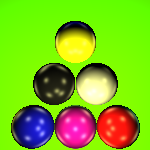
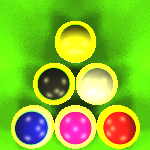
added shadow functionality and bug fixed several problems

diff --git a/ray_tracer.py b/ray_tracer.py
@@ -141,7 +141,7 @@ def main():
                     i - math.floor(args.height / 2)) - camera.position
             ray = ray / np.linalg.norm(ray)
 
-            ray_tracer(ray, i, j, image_array, objects, scene_settings, camera, 1)
+            ray_tracer(ray, i, j, image_array, objects, scene_settings, camera.position, 1)
 
     # # Dummy result
     for i in range(args.height):
@@ -155,7 +155,7 @@ def main():
     save_image(image_array)
 
 
-def ray_tracer(ray, i, j, image_array, objects, scene_settings, camera, depth):
+def ray_tracer(ray, i, j, image_array, objects, scene_settings, origin_point, depth):
     if depth > 1:
         return
     # we subtract the camera position because we want the ray to start from the camera position
@@ -183,9 +183,9 @@ def ray_tracer(ray, i, j, image_array, objects, scene_settings, camera, depth):
             # ray is a 3D vector, sphere is a Sphere object which has a center point and a radius
             # V is the ray direction, P0 is the ray origin, O is the sphere center, r is the sphere radius
             # the result (t) is the distance from the ray origin to the intersection point
-
-            coefficients = [1, np.dot(2 * ray, np.array(camera.position) - np.array(surface.position)),
-                            np.linalg.norm(np.array(camera.position) - np.array(
+            # TODO !!! maybe origin_point is incorrect here !!!
+            coefficients = [1, np.dot(2 * ray, np.array(origin_point) - np.array(surface.position)),
+                            np.linalg.norm(np.array(origin_point) - np.array(
                                 surface.position)) ** 2 - surface.radius ** 2]
             # !!! change to 0 from np.linalg.norm(np.array(camera.position) - np.array( surface.position)) ** 2 - surface.radius ** 2
             # in the third coefficient !!!
@@ -196,7 +196,7 @@ def ray_tracer(ray, i, j, image_array, objects, scene_settings, camera, depth):
                 roots = np.roots(coefficients)
                 for t in roots:
                     if 0 < t < closest_intersection_distance:
-                        point_of_intersection = camera.position + t * ray
+                        point_of_intersection = origin_point + t * ray
                         closest_intersection_distance = t
                         closest_surface = (surface, point_of_intersection)
 
@@ -209,10 +209,10 @@ def ray_tracer(ray, i, j, image_array, objects, scene_settings, camera, depth):
             surface_normal = np.array(surface.normal)
             surface_normal = surface_normal / np.linalg.norm(surface_normal)
             if np.dot(ray, surface_normal) != 0:
-                t = -(np.dot(camera.position, surface_normal) - surface.offset) / np.dot(ray, surface_normal)
+                t = -(np.dot(origin_point, surface_normal) - surface.offset) / np.dot(ray, surface_normal)
                 # !!! maybe change normal to -normal !!!
                 if 0 < t < closest_intersection_distance:
-                    point_of_intersection = camera.position + t * ray
+                    point_of_intersection = origin_point + t * ray
                     closest_intersection_distance = t
                     closest_surface = (surface, point_of_intersection)
 
@@ -241,9 +241,9 @@ def ray_tracer(ray, i, j, image_array, objects, scene_settings, camera, depth):
                 plane_normal = np.array(plane.normal)
                 plane_normal = plane_normal / np.linalg.norm(plane_normal)
                 if np.dot(ray, plane_normal) != 0:
-                    t = -(np.dot(camera.position, plane_normal) - plane.offset) / np.dot(ray, plane_normal)
+                    t = -(np.dot(origin_point, plane_normal) - plane.offset) / np.dot(ray, plane_normal)
                     if t > 0:
-                        point_of_intersection = camera.position + t * ray
+                        point_of_intersection = origin_point + t * ray
                         # check if the point is inside the cube
                         if center[0] - edge_length / 2 <= point_of_intersection[0] <= center[
                             0] + edge_length / 2 and center[1] - edge_length / 2 <= point_of_intersection[1] <= \
@@ -307,7 +307,7 @@ def ray_tracer(ray, i, j, image_array, objects, scene_settings, camera, depth):
             normal = normal / np.linalg.norm(normal)
 
         # calculate the intersection to the camera
-        view = camera.position - closest_surface[1]
+        view = origin_point - closest_surface[1]
         view = view / np.linalg.norm(view)
 
         material_index = closest_surface[0].material_index
@@ -336,25 +336,82 @@ def ray_tracer(ray, i, j, image_array, objects, scene_settings, camera, depth):
                 # ( % of rays that hit the points from the light source)
                 shadow_intensity = light.shadow_intensity
                 # SigmaL(Kd(N.L)+Ks(V.R)^n)SLIL
+
+                intersection_to_light = light.position - closest_surface[1]
+                intersection_to_light = intersection_to_light / np.linalg.norm(intersection_to_light)
+
+                intersection_to_reflected_light = 2 * np.dot(intersection_to_light,
+                                                             normal) * normal - intersection_to_light
+                intersection_to_reflected_light = intersection_to_reflected_light / np.linalg.norm(
+                    intersection_to_reflected_light)
+
+                reflected_ray = ray - 2 * np.dot(ray, normal) * normal
+                reflected_ray = reflected_ray / np.linalg.norm(reflected_ray)
+
+                plane_offset = np.dot(-intersection_to_light, light.position)
+
+                light_plane = InfinitePlane(plane_offset, -intersection_to_light, 1)
+
+                bounding_box_width = light.radius / math.sqrt(2)
+
+                """
+                # calculate the center of the image (Pc)
+                camera.look_at = camera.look_at / np.linalg.norm(camera.look_at)
+                camera.up_vector = camera.up_vector / np.linalg.norm(camera.up_vector)
+                image_center = camera.position + np.array(camera.look_at) * camera.screen_distance
+            
+                # calculate Vright and Vup
+                v_right = np.cross(camera.look_at, camera.up_vector)
+                v_right = v_right / np.linalg.norm(v_right)
+                v_up = np.cross(v_right, camera.look_at)
+                v_up = v_up / np.linalg.norm(v_up)
+                """
+
+                """
+                 ray = image_center - v_right * ratio * (j - math.floor(args.width / 2)) - v_up * ratio * (
+                    i - math.floor(args.height / 2)) - camera.position
+                 ray = ray / np.linalg.norm(ray)
+                """
+                grid_ratio = 2 * bounding_box_width / scene_settings.root_number_shadow_rays
+                light_v_right = np.random.randn(3)  # take a random vector
+                light_v_right = light_v_right.astype(np.float64)  # convert to float64 explicitly
+
+                dot_product = light_v_right.dot(intersection_to_light)
+                real_dot_product = np.real(dot_product)  # Extract the real part of the dot product result
+
+                light_v_right -= real_dot_product * intersection_to_light / np.linalg.norm(intersection_to_light) ** 2
+                light_v_right /= np.linalg.norm(light_v_right)  # normalize it
+                light_v_up = np.cross(intersection_to_light, light_v_right)
+                light_v_up /= np.linalg.norm(light_v_up)
+
+                shadow_rays_count = 0
+
+                for x in range(int(scene_settings.root_number_shadow_rays)):
+                    for y in range(int(scene_settings.root_number_shadow_rays)):
+
+                        point_on_grid = light.position - light_v_right * grid_ratio * (
+                                x - math.floor(scene_settings.root_number_shadow_rays / 2)) - light_v_up * grid_ratio * (y - math.floor(
+                                    scene_settings.root_number_shadow_rays) / 2) + ((
+                                           np.random.rand() - 0.5) * grid_ratio * light_v_right + (
+                                           np.random.rand() - 0.5) * grid_ratio * light_v_up)
+                        grid_ray = - (point_on_grid - closest_surface[1])
+                        grid_ray = grid_ray / np.linalg.norm(grid_ray)
+                        # TODO make the function ray_tracer_shadow return whether we hit the correct point of intersection
+                        # TODO calculate how many times we hit the correct point of intersection
+
+                        is_hit = ray_tracer_shadow(grid_ray, objects, closest_surface[1], point_on_grid)
+                        if is_hit:
+                            shadow_rays_count += 1
+                # print(shadow_rays_count)
+                light_intensity = (1 - shadow_intensity) * 1 + shadow_intensity * (
+                            shadow_rays_count / (scene_settings.root_number_shadow_rays ** 2))
+
                 for color in range(3):
-                    intersection_to_light = light.position - closest_surface[1]
-                    intersection_to_light = intersection_to_light / np.linalg.norm(intersection_to_light)
-
-                    intersection_to_reflected_light = 2 * np.dot(intersection_to_light,
-                                                                 normal) * normal - intersection_to_light
-                    intersection_to_reflected_light = intersection_to_reflected_light / np.linalg.norm(
-                        intersection_to_reflected_light)
-
-                    reflected_ray = ray - 2 * np.dot(ray, normal) * normal
-                    reflected_ray = reflected_ray / np.linalg.norm(reflected_ray)
-
-
                     # !!! intersection to light might be a bad calculation !!!
 
                     diffusion_and_specular = (material_diffuse[color] * np.dot(normal, intersection_to_light) + \
                                               material_specular[color] * np.dot(view,
-                                                                                intersection_to_reflected_light) ** surface_material.shininess)
-                    # !!! * (1 - shadow_intensity) * light_intensity !!!
+                                                                                intersection_to_reflected_light) ** surface_material.shininess) * light_intensity
                     # TODO shininess is makes the result way too high
                     # TODO if its 1- shadow_intensity or  just shadow_intensity
                     # TODO also maybe we need to add an if statement for this case
@@ -367,15 +424,125 @@ def ray_tracer(ray, i, j, image_array, objects, scene_settings, camera, depth):
                     """light intensity = (1− shadow intensity)*1 +shadow intensity*(% of rays that hit the points from the light source)"""
 
                     image_array[i, j, color] += scene_settings.background_color[
-                                                    color] * surface_material.transparency + diffusion_and_specular * \
+                                                    color] * surface_material.transparency + (diffusion_and_specular * \
                                                 (1 - surface_material.transparency) * light.color[color] * 255 + \
-                                                surface_material.reflection_color[color]
+                                                surface_material.reflection_color[color])
                     # print("diffusion and specular", diffusion_and_specular)
 
                     # !!! changed the multiplication by * light.color to inside the final color calculation
 
-                    ray_tracer(reflected_ray, i, j, image_array, objects, scene_settings, camera, depth + 1)
+                    ray_tracer(reflected_ray, i, j, image_array, objects, scene_settings, origin_point, depth + 1)
+
+
+def ray_tracer_shadow(ray, objects, original_intersection_point, point_on_grid):
+    closest_surface = (None, float('inf'))
+    closest_intersection_distance = float('inf')
+    point_of_intersection = None
+    for surface in objects:
+        # check if the surface is a sphere
+        if type(surface) in [Light, Material]:
+            pass
+        elif type(surface) == Sphere:
+            """
+            Solve quadratic equation:
+            at2 + bt + c = 0
+            where:
+                a = 1
+                b = 2 *(V • (P0 - O))
+                c = ||P0 - O||****2 - r**2 (= 0 ?)
+            """
+
+            # ray is a 3D vector, sphere is a Sphere object which has a center point and a radius
+            # V is the ray direction, P0 is the ray origin, O is the sphere center, r is the sphere radius
+            # the result (t) is the distance from the ray origin to the intersection point
+
+            coefficients = [1, np.dot(2 * ray, np.array(point_on_grid) - np.array(surface.position)),
+                            np.linalg.norm(np.array(point_on_grid) - np.array(surface.position)) ** 2 - surface.radius ** 2]
+            # !!! change to 0 from np.linalg.norm(np.array(camera.position) - np.array( surface.position)) ** 2 - surface.radius ** 2
+            # in the third coefficient !!!
+            # get only real roots
+            # check if the discriminant is negative, if so, there are no real roots
+            discriminant = coefficients[1] ** 2 - 4 * coefficients[0] * coefficients[2]
+            if discriminant >= 0:
+                roots = np.roots(coefficients)
+                for t in roots:
+                    if 0 < t < closest_intersection_distance:
+                        point_of_intersection = point_on_grid + t * ray
+                        closest_intersection_distance = t
+                        closest_surface = (surface, point_of_intersection)
+
+        elif type(surface) == InfinitePlane:
+            """
+            t = -(P0 • N - d) / (V • N)
+            """
+            # check if the ray is not parallel to the plane, otherwise there is no intersection, we can skip
+            # and we avoid division by zero
+            surface_normal = np.array(surface.normal)
+            surface_normal = surface_normal / np.linalg.norm(surface_normal)
+            if np.dot(ray, surface_normal) != 0:
+                t = -(np.dot(point_on_grid, surface_normal) - surface.offset) / np.dot(ray, surface_normal)
+                # !!! maybe change normal to -normal !!!
+                if 0 < t < closest_intersection_distance:
+                    point_of_intersection = point_on_grid + t * ray
+                    closest_intersection_distance = t
+                    closest_surface = (surface, point_of_intersection)
+
+        elif type(surface) == Cube:
+            # we will use the slab method, we know the cube is axis aligned, we can check each axis separately
+            # we will create 6 planes, one for each side of the cube, and check if the ray intersects with them
+            # instead of creating objects for each plane, we will use the plane equation:
+            # ax + by + cz + d = 0
+            # where a, b, c are the normal vector of the plane, and d is the offset
+            # we will use the normal vector and the offset to create the planes
+            center = surface.position
+            edge_length = surface.scale
+            # infinite planes are defined by (normal, offset, material)
+            plane1 = InfinitePlane(np.array([1, 0, 0]), center[0] + edge_length / 2, None)
+            plane2 = InfinitePlane(np.array([-1, 0, 0]), -center[0] + edge_length / 2, None)
+            plane3 = InfinitePlane(np.array([0, 1, 0]), center[1] + edge_length / 2, None)
+            plane4 = InfinitePlane(np.array([0, -1, 0]), -center[1] + edge_length / 2, None)
+            plane5 = InfinitePlane(np.array([0, 0, 1]), center[2] + edge_length / 2, None)
+            plane6 = InfinitePlane(np.array([0, 0, -1]), -center[2] + edge_length / 2, None)
+
+            planes = [plane1, plane2, plane3, plane4, plane5, plane6]
+
+            for plane in planes:
+                # check if the ray is not parallel to the plane, otherwise there is no intersection, we can skip
+                # and we avoid division by zero
+                plane_normal = np.array(plane.normal)
+                plane_normal = plane_normal / np.linalg.norm(plane_normal)
+                if np.dot(ray, plane_normal) != 0:
+                    t = -(np.dot(point_on_grid, plane_normal) - plane.offset) / np.dot(ray, plane_normal)
+                    if t > 0:
+                        point_of_intersection = point_on_grid + t * ray
+                        # check if the point is inside the cube
+                        if center[0] - edge_length / 2 <= point_of_intersection[0] <= center[
+                            0] + edge_length / 2 and center[1] - edge_length / 2 <= point_of_intersection[1] <= \
+                                center[1] + edge_length / 2 and center[2] - edge_length / 2 <= \
+                                point_of_intersection[2] <= center[2] + edge_length / 2:
+                            if 0 < t < closest_intersection_distance:
+                                closest_intersection_distance = t
+                                closest_surface = (surface, point_of_intersection)
+    #print(point_of_intersection==original_intersection_point)
+    # print("poi :", closest_surface[1], "oip :", original_intersection_point)
+
+    is_hit = True
+    for coord in range(3):
+        if abs(closest_surface[1][coord] - original_intersection_point[coord]) > 0.000001:
+            # TODO !!! maybe less zeros in the threshold !!!
+            is_hit = False
+            break
+
+    return is_hit
+
+
+    # if np.array_equal(closest_surface[1], original_intersection_point):
+    #     return True
+    # else:
+    #     return False
 
 
 if __name__ == '__main__':
     main()
+
+# TODO !!! change camera.position to the actual point from which the ray is casted in the recursive process !!!
